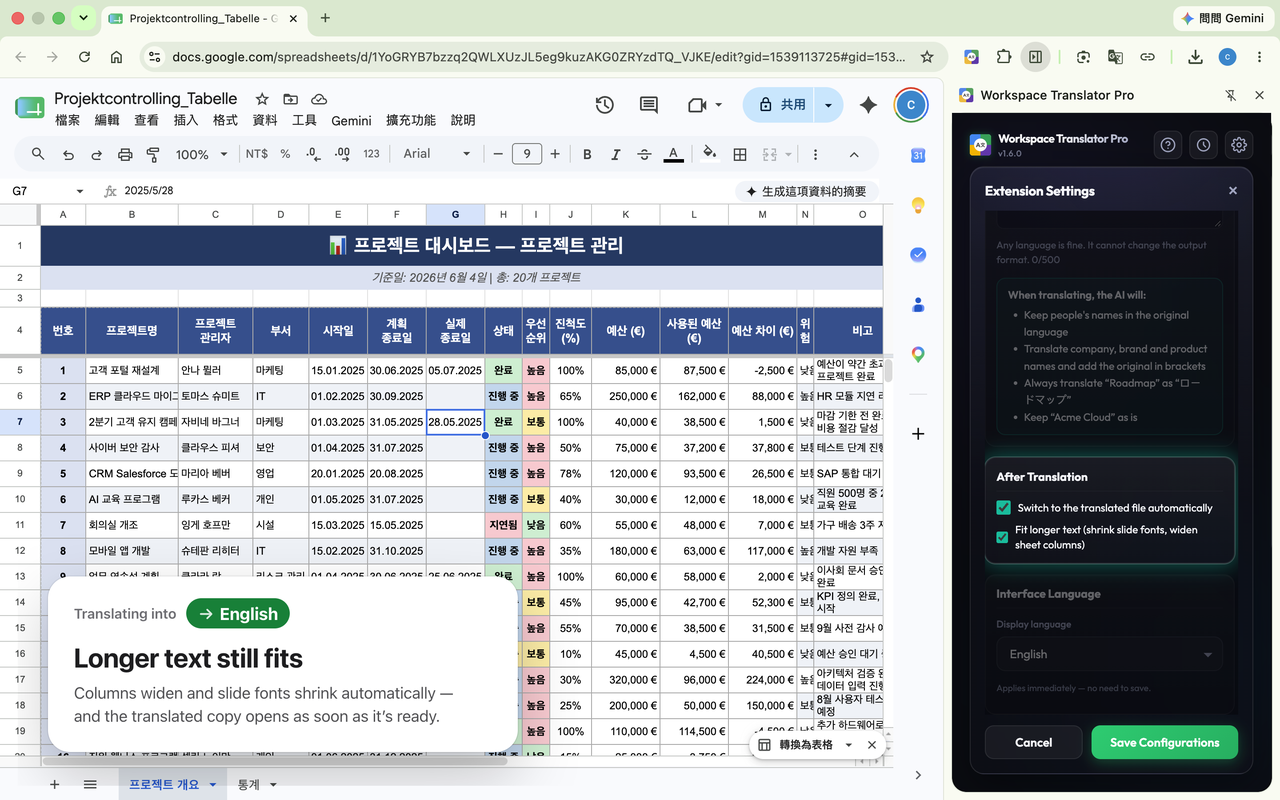
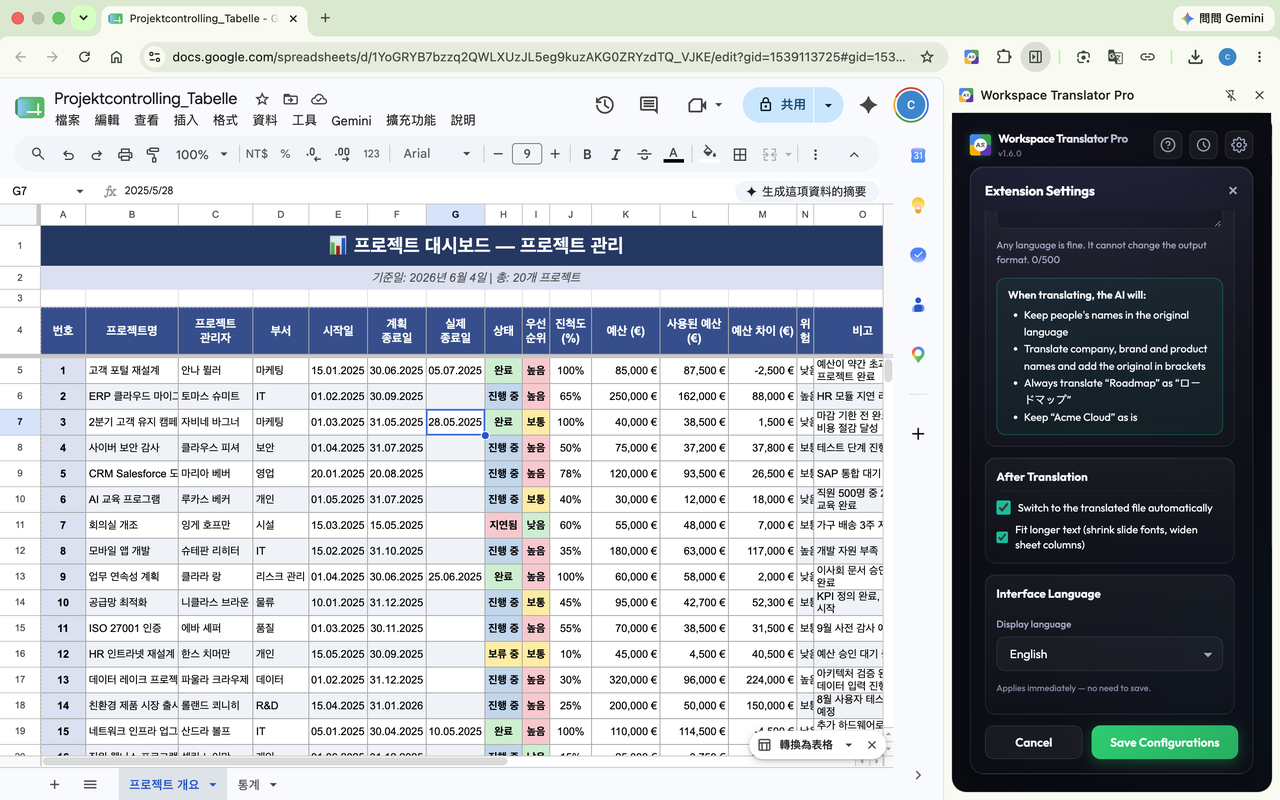
store: photo screenshots back to plain product shots (no captions, no highlights), new UI kept

diff --git a/store-assets/retouch.py b/store-assets/retouch.py
@@ -29,23 +29,23 @@ import json
 # and a caption card names the language first, then the feature.
 PHOTOS = [
     dict(key='slide', accent='#e37400', lang_name='Tiếng Việt', panel=dict(
-            demo='main', type='presentation', title='Google_IO_2026', lang='vi', range='3-8', marks='job'),
+            demo='main', type='presentation', title='Google_IO_2026', lang='vi', range='3-8'),
          title='Pick the language — and the slides',
          sub='Translate the whole deck or only slides\u00a03\u20118. Every layout stays exactly as it was.'),
     dict(key='doc', accent='#1a73e8', lang_name='繁體中文', panel=dict(
             demo='prefs', type='document', title='Hezbollah rejects renewed ceasefire agreed by Israel and Lebanon',
-            lang='zh-TW', tone='formal', marks='names',
+            lang='zh-TW', tone='formal',
             names=json.dumps({'people': 'keep', 'brands': 'keep', 'places': 'translate'}),
             terms=json.dumps([{'src': 'Hezbollah', 'mode': 'keep', 'dst': ''},
                               {'src': 'ceasefire', 'mode': 'translate', 'dst': '停火'}], ensure_ascii=False)),
          title='Names stay as they are',
          sub='Keep people’s and brand names, translate places — the AI spots names by itself.'),
     dict(key='sheets', accent='#188038', lang_name='English', panel=dict(
-            demo='prefs', type='spreadsheet', title='Projektcontrolling_Tabelle', lang='en', scroll='result', marks='result'),
+            demo='prefs', type='spreadsheet', title='Projektcontrolling_Tabelle', lang='en', scroll='result'),
          title='Longer text still fits',
          sub='Columns widen and slide fonts shrink automatically — and the translated copy opens as soon as it’s ready.'),
     dict(key='form', accent='#7248b9', lang_name='Español', panel=dict(
-            demo='prefs', type='form', title='高級ファッションブランドに関する消費者調査', lang='es', scroll='terms', marks='terms',
+            demo='prefs', type='form', title='高級ファッションブランドに関する消費者調査', lang='es', scroll='terms',
             terms=json.dumps([{'src': 'ブランド', 'mode': 'translate', 'dst': 'marca'},
                               {'src': 'Gucci', 'mode': 'keep', 'dst': ''}], ensure_ascii=False)),
          title='Your words, every time',
@@ -107,9 +107,7 @@ def main():
             mask = Image.new('L', (bw, bh), 0)
             ImageDraw.Draw(mask).rounded_rectangle((0, -RADIUS, bw - 1, bh - 1), RADIUS, fill=255)
             photo.paste(panel, (left, top), mask)
-            caption = render_caption(d)
-            # bottom-left of the editor area, 18 css px in from the edges
-            photo.paste(caption, (round(18 * PHOTO_CSS_SCALE), photo.height - caption.height - round(14 * PHOTO_CSS_SCALE)), caption)
+            # Plain product shots: no caption, no highlight (render_caption kept for reuse).
             final = photo.resize((1280, 800), Image.LANCZOS)
             path = os.path.join(OUT, f'photo-{key}.png')
             final.save(path, 'PNG', optimize=True)
